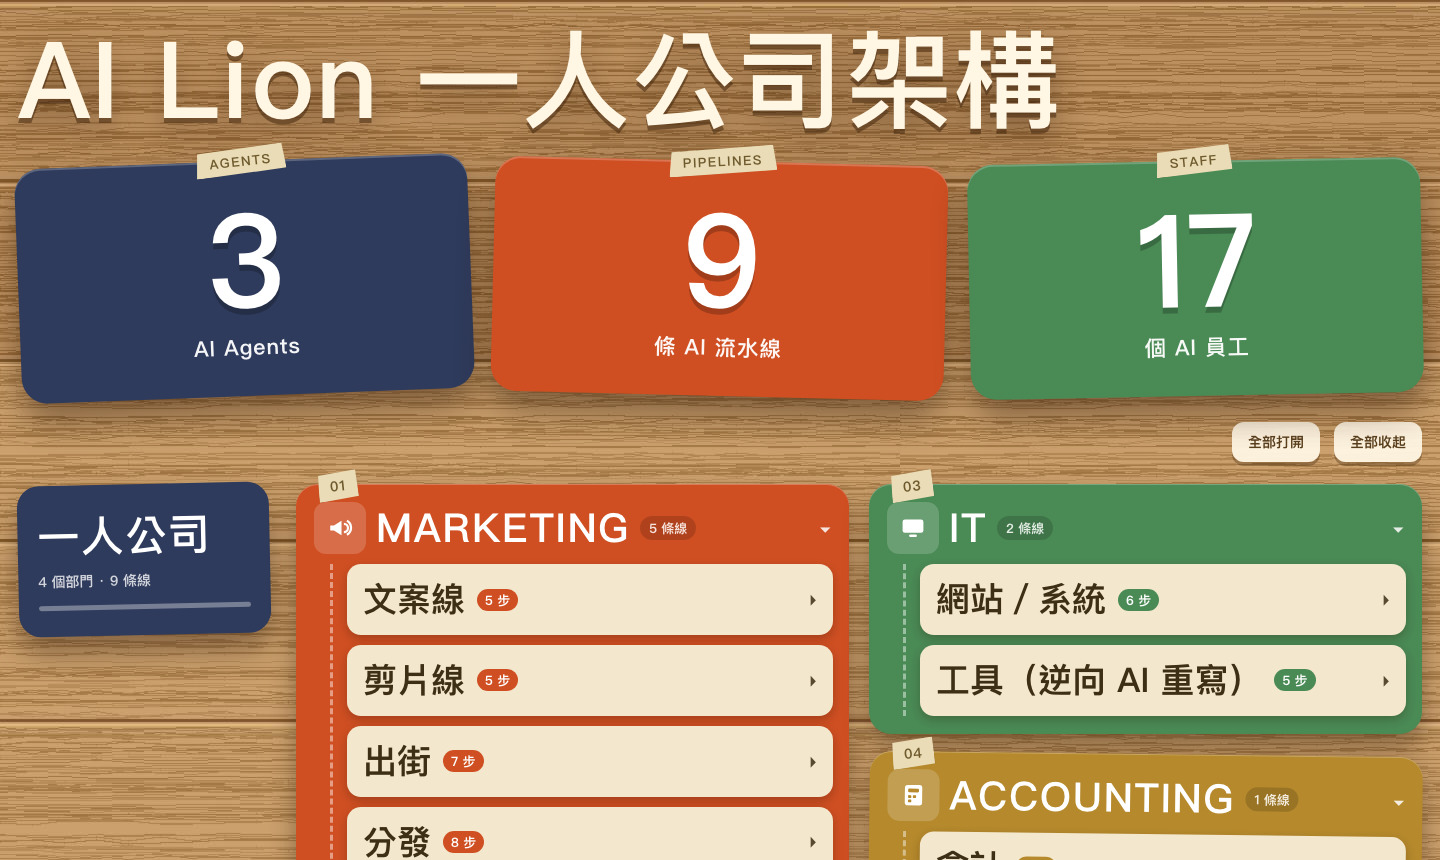
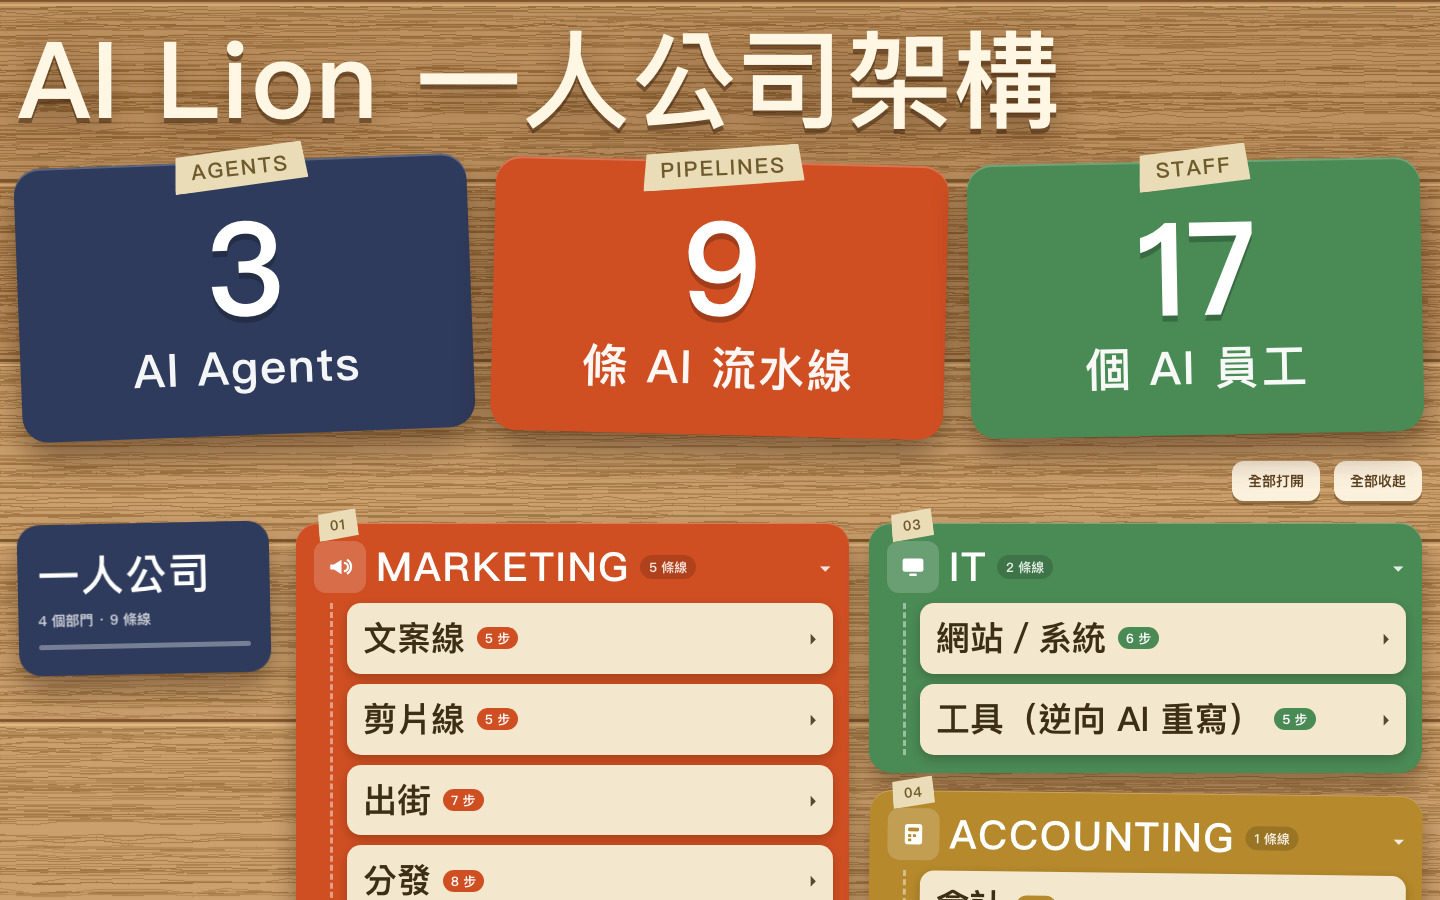
hero 標籤放大 46px、膠紙 21px

diff --git a/mindmap.html b/mindmap.html
@@ -16,16 +16,16 @@ h1{font-size:clamp(40px,7.4vw,116px);font-weight:900;color:#fff6e3;line-height:1
   letter-spacing:.01em;text-shadow:0 5px 0 rgba(60,32,8,.5),0 14px 34px rgba(40,18,4,.45);
   margin-bottom:26px}
 .nums{display:grid;grid-template-columns:repeat(3,minmax(0,1fr));gap:22px}
-.ncard{position:relative;background:var(--c);border-radius:26px;padding:44px 22px 34px;
+.ncard{position:relative;background:var(--c);border-radius:26px;padding:52px 22px 40px;
   display:flex;flex-direction:column;align-items:center;transform:rotate(var(--r,0deg));
   box-shadow:0 18px 34px rgba(40,18,4,.46),inset 0 2px 0 rgba(255,255,255,.22)}
 .nnum{font-size:clamp(88px,9vw,132px);font-weight:900;color:#fff;line-height:.86;
   letter-spacing:-.02em;text-shadow:0 6px 0 rgba(0,0,0,.22)}
-.nlab{margin-top:16px;font-size:clamp(17px,1.5vw,24px);font-weight:800;
+.nlab{margin-top:18px;font-size:clamp(32px,3.2vw,46px);font-weight:800;line-height:1.15;
   color:rgba(255,255,255,.95);letter-spacing:.04em;text-align:center}
 .ntape{position:absolute;top:-14px;left:50%;transform:translateX(-50%) rotate(-4deg);
-  background:#e9dcb6;color:#6f5a2e;font-size:13px;font-weight:900;letter-spacing:.12em;
-  padding:5px 14px;box-shadow:0 3px 8px rgba(40,18,4,.35);
+  background:#e9dcb6;color:#6f5a2e;font-size:clamp(18px,1.5vw,21px);font-weight:900;letter-spacing:.1em;
+  padding:6px 18px;box-shadow:0 3px 8px rgba(40,18,4,.35);
   clip-path:polygon(3% 10%,97% 0,100% 90%,0 100%);white-space:nowrap}
 .top{display:flex;flex-wrap:wrap;align-items:center;gap:14px;margin-bottom:22px}
 .top .sp{flex:1}
@@ -112,8 +112,9 @@ h1{font-size:clamp(40px,7.4vw,116px);font-weight:900;color:#fff6e3;line-height:1
 }
 @media (max-width:760px){
   .nums{grid-template-columns:1fr;gap:26px}
-  .ncard{transform:none;padding:26px 18px 20px}
+  .ncard{transform:none;padding:44px 16px 34px}
   .nnum{font-size:clamp(90px,26vw,150px)}
+  .nlab{font-size:clamp(34px,9vw,46px)}
 }
 @media (max-width:640px){
   .top{gap:10px}
